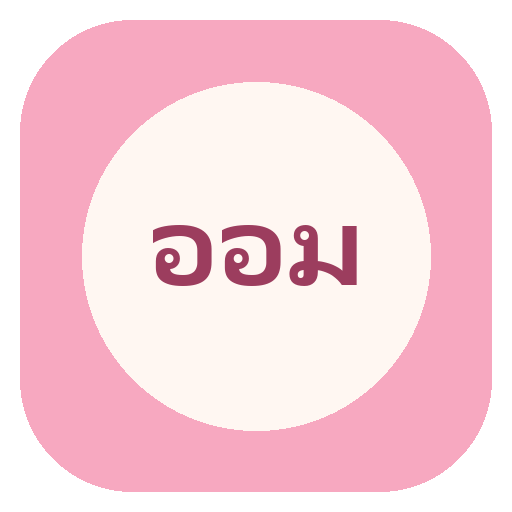
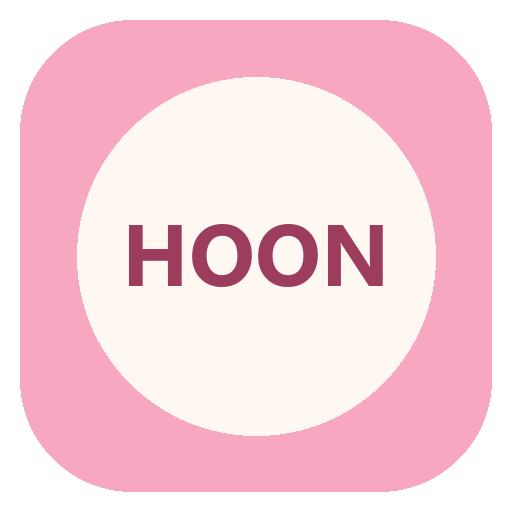
เปลี่ยนชื่อแอปเป็น HOON

diff --git a/js/pages/news.js b/js/pages/news.js
@@ -20,7 +20,7 @@ const arr = (x) => (Array.isArray(x) ? x.filter((i) => i !== null && i !== undef
 const safeUrl = (u) => (/^https?:\/\//i.test(String(u || '')) ? String(u) : null);
 
 export default {
-  title: (params) => (params && params[0] ? 'อ่านข่าว' : 'ข่าวจากทีมหนูออม'),
+  title: (params) => (params && params[0] ? 'อ่านข่าว' : 'ข่าวจากทีม HOON'),
   async render(root, params, ctx) {
     const { store, ui, fmt, nav } = ctx;
     const { h, icon } = ui;
@@ -48,7 +48,7 @@ export default {
       const seg = ui.segment([{ value: 'ALL', label: 'ทั้งหมด' }, { value: 'DAILY', label: 'ข่าวเช้า' }, { value: 'WEEKLY', label: 'สรุปสัปดาห์' }], filter, (v) => { filter = v; drawList(); });
       let body;
       if (!all.length) {
-        body = ui.empty({ mood: 'sleep', title: 'ยังไม่มีข่าวจากทีมหนูออม', text: 'ทีมข่าวจะส่งสรุปมาทุกเช้าวันทำการ 08:30 และสรุปสัปดาห์วันเสาร์ 09:00' });
+        body = ui.empty({ mood: 'sleep', title: 'ยังไม่มีข่าวจากทีม HOON', text: 'ทีมข่าวจะส่งสรุปมาทุกเช้าวันทำการ 08:30 และสรุปสัปดาห์วันเสาร์ 09:00' });
       } else if (!rows.length) {
         body = ui.empty({ mood: 'sleep', title: 'ไม่มีข่าวในหมวดนี้', text: 'ลองเลือกหมวด "ทั้งหมด" ดูนะ' });
       } else {

diff --git a/index.html b/index.html
@@ -3,14 +3,14 @@
 <head>
   <meta charset="utf-8">
   <meta name="viewport" content="width=device-width, initial-scale=1, viewport-fit=cover">
-  <title>หนูออม</title>
-  <meta name="description" content="หนูออม — ผู้ช่วยดูพอร์ตหุ้น ปันผล ทอง และคริปโตของคุณ">
+  <title>HOON</title>
+  <meta name="description" content="HOON — ผู้ช่วยดูพอร์ตหุ้น ปันผล ทอง และคริปโตของคุณ">
   <meta name="theme-color" content="#FFF7F2" media="(prefers-color-scheme: light)">
   <meta name="theme-color" content="#1F181D" media="(prefers-color-scheme: dark)">
   <meta name="apple-mobile-web-app-capable" content="yes">
   <meta name="mobile-web-app-capable" content="yes">
   <meta name="apple-mobile-web-app-status-bar-style" content="default">
-  <meta name="apple-mobile-web-app-title" content="หนูออม">
+  <meta name="apple-mobile-web-app-title" content="HOON">
   <meta name="robots" content="noindex">
   <link rel="manifest" href="manifest.webmanifest">
   <link rel="icon" href="img/icon-192.png">
@@ -24,7 +24,7 @@
 </head>
 <body>
   <div id="app" class="app"></div>
-  <noscript>หนูออมต้องเปิด JavaScript ก่อนนะ</noscript>
+  <noscript>HOON ต้องเปิด JavaScript ก่อนนะ</noscript>
   <script src="vendor/chart.umd.min.js"></script>
   <script type="module" src="js/main.js"></script>
 </body>

diff --git a/js/main.js b/js/main.js
@@ -6,7 +6,7 @@ import store from './store.js';
 import * as calc from './calc/index.js';
 
 const { h, icon } = ui;
-export const BUILD = '2026-11-20.3';
+export const BUILD = '2026-11-20.4';
 
 const TABS = [
   { path: '', icon: 'home', label: 'หน้าแรก' },
@@ -61,7 +61,7 @@ applyTheme();
 
 // ---------- shell ----------
 const app = document.getElementById('app');
-const topTitle = h('div', { class: 'title' }, 'หนูออม');
+const topTitle = h('div', { class: 'title' }, 'HOON');
 const backBtn = h('button', { class: 'icon-btn hidden', 'aria-label': 'ย้อนกลับ', onClick: () => history.length > 1 ? history.back() : nav('') }, icon('chevron-left'));
 const logo = h('span', { class: 'logo', style: { cursor: 'pointer' }, onClick: () => nav('') }, ui.mascot('happy', 38));
 const offline = h('span', { class: 'offline-dot hidden', title: 'ออฟไลน์' });
@@ -170,8 +170,8 @@ async function render() {
   try {
     const mod = (await import(`./pages/${name}.js`)).default;
     if (seq !== renderSeq) return;
-    topTitle.textContent = typeof mod.title === 'function' ? mod.title(params) : (mod.title || 'หนูออม');
-    document.title = `${topTitle.textContent} · หนูออม`;
+    topTitle.textContent = typeof mod.title === 'function' ? mod.title(params) : (mod.title || 'HOON');
+    document.title = `${topTitle.textContent} · HOON`;
     const root = h('div', { class: 'page-enter' });
     pageEl.replaceChildren(root);
     const ret = await mod.render(root, params, ctx);

diff --git a/js/pages/settings.js b/js/pages/settings.js
@@ -204,7 +204,7 @@ export default {
 
       // ---------- about ----------
       out.push(ui.card({
-        body: h('div', { class: 'row' }, ui.mascot('happy', 52), h('div', { class: 'grow' }, h('b', null, 'หนูออม เวอร์ชัน 1.0'), h('div', { class: 'small muted' }, 'ผู้ช่วยเก็บออมและติดตามหุ้น ทอง คริปโต และปันผล'))),
+        body: h('div', { class: 'row' }, ui.mascot('happy', 52), h('div', { class: 'grow' }, h('b', null, 'HOON เวอร์ชัน 1.0'), h('div', { class: 'small muted' }, 'ผู้ช่วยเก็บออมและติดตามหุ้น ทอง คริปโต และปันผล'))),
       }));
       root.replaceChildren(h('div', null, out), ui.disclaimer());
     };

diff --git a/js/pages/learn.js b/js/pages/learn.js
@@ -155,7 +155,7 @@ const QUIZ = [
 ];
 
 export default {
-  title: (params) => (params && params[0] ? 'บทเรียน' : 'ห้องเรียนหนูออม'),
+  title: (params) => (params && params[0] ? 'บทเรียน' : 'ห้องเรียน HOON'),
   async render(root, params, ctx) {
     const { ui, nav } = ctx;
     const { h, icon } = ui;

diff --git a/sw.js b/sw.js
@@ -1,5 +1,5 @@
 // หนูออม service worker — app shell offline. API calls (script.google.com) always go to network.
-const BUILD = '2026-11-20.3';
+const BUILD = '2026-11-20.4';
 const CACHE = 'nuaom-' + BUILD;
 const SHELL = [
   './', 'index.html', 'manifest.webmanifest', 'css/theme.css', 'vendor/chart.umd.min.js',

diff --git a/js/pages/home.js b/js/pages/home.js
@@ -19,7 +19,7 @@ export function last12Net(calc, tx, fx) {
 }
 
 export default {
-  title: 'หนูออม',
+  title: 'HOON',
   async render(root, params, ctx) {
     const { store, ui, fmt, calc, nav } = ctx;
     const { h } = ui;
